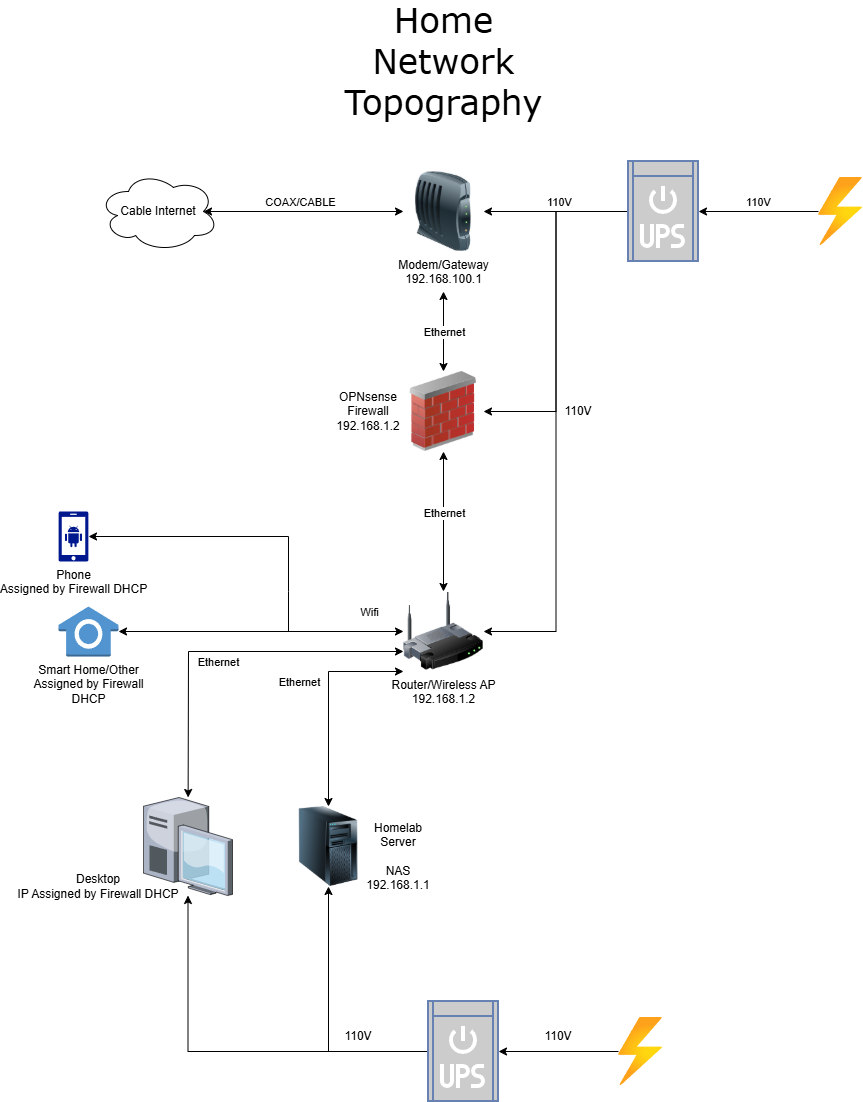
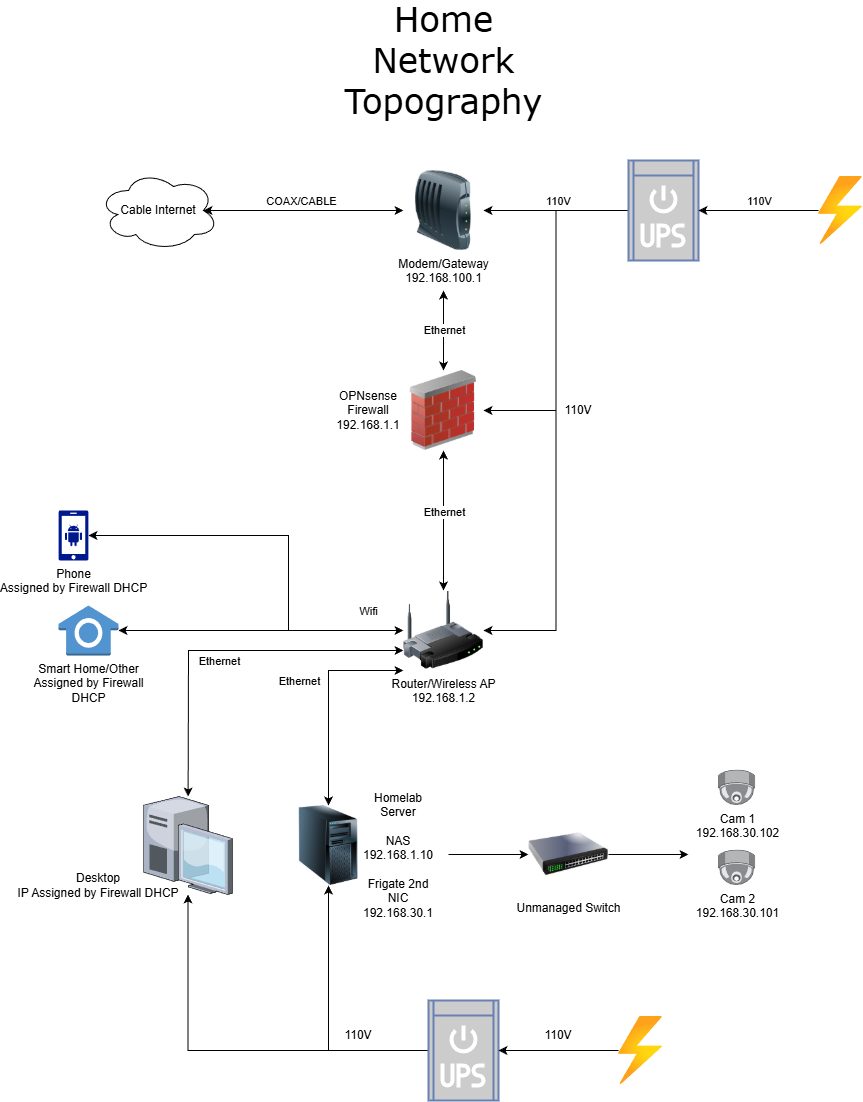
Update

diff --git a/vehicles.html b/vehicles.html
@@ -33,24 +33,20 @@
         <h2>Projects to document</h2>
         <ul class="small-note">
           <li>ESP32 truck telemetry / WiFi portal</li>
-          <li>LED / Knight Rider scanner modules</li>
           <li>Horn controller and relay experiments</li>
           <li>Sensor mounts and 3D printed brackets</li>
         </ul>
-        <p class="small-note">
-          Related images can live in <code>/assets/vehicles/</code> with short write-ups here.
-        </p>
       </section>
     </main>
 
-<footer class="site-footer">
-  <div>© <span id="year"></span> Delaplaine Digital Solutions.</div>
-  <div>All images and content on this website are copyrighted and owned by Delaplaine Digital Solutions.</div>
-  <div>
-    For licensing, usage permissions, or other inquiries, please contact
-    <a href="mailto:DelaplaineDigitalSolutions@gmail.com">DelaplaineDigitalSolutions@gmail.com</a>.
-  </div>
-</footer>
+   <footer class="site-footer">
+      <div>© <span id="year"></span> Delaplaine Digital Solutions.</div>
+      <div>All images and content on this website are copyrighted and owned by Delaplaine Digital Solutions.</div>
+      <div>
+        For licensing, usage permissions, or other inquiries, please contact
+        <a href="mailto:Eric@delaplainedigital.com">Eric@delaplainedigital.com</a>.
+      </div>
+    </footer>
   </div>
   <script>
     document.getElementById("year").textContent = new Date().getFullYear();

diff --git a/homelab.html b/homelab.html
@@ -26,7 +26,7 @@
     <main>
       <h1 class="page-title">Homelab & Virtualization Stack</h1>
       <p class="page-subtitle">
-        The Windows 11 Pro host and VMs that power the NAS, firewall, tools, and experiments.
+        The Windows 11 Enterprise host and VMs that power the NAS, firewall, tools, and experiments.
       </p>
 
       <section class="section-card">
@@ -113,12 +113,12 @@
       </section>
     </main>
 
-    <footer class="site-footer">
+   <footer class="site-footer">
       <div>© <span id="year"></span> Delaplaine Digital Solutions.</div>
       <div>All images and content on this website are copyrighted and owned by Delaplaine Digital Solutions.</div>
       <div>
         For licensing, usage permissions, or other inquiries, please contact
-        <a href="mailto:DelaplaineDigitalSolutions@gmail.com">DelaplaineDigitalSolutions@gmail.com</a>.
+        <a href="mailto:Eric@delaplainedigital.com">Eric@delaplainedigital.com</a>.
       </div>
     </footer>
   </div>

diff --git a/index.html b/index.html
@@ -73,14 +73,14 @@
       </section>
     </main>
 
-<footer class="site-footer">
-  <div>© <span id="year"></span> Delaplaine Digital Solutions.</div>
-  <div>All images and content on this website are copyrighted and owned by Delaplaine Digital Solutions.</div>
-  <div>
-    For licensing, usage permissions, or other inquiries, please contact
-    <a href="mailto:DelaplaineDigitalSolutions@gmail.com">DelaplaineDigitalSolutions@gmail.com</a>.
-  </div>
-</footer>
+   <footer class="site-footer">
+      <div>© <span id="year"></span> Delaplaine Digital Solutions.</div>
+      <div>All images and content on this website are copyrighted and owned by Delaplaine Digital Solutions.</div>
+      <div>
+        For licensing, usage permissions, or other inquiries, please contact
+        <a href="mailto:Eric@delaplainedigital.com">Eric@delaplainedigital.com</a>.
+      </div>
+    </footer>
   </div>
 
   <script>

diff --git a/about.html b/about.html
@@ -74,7 +74,7 @@
         <h2>Contact</h2>
         <p>
           For opportunities, collaborations, or questions about my work, you can reach me at
-          <a href="mailto:DelaplaineDigitalSolutions@gmail.com">DelaplaineDigitalSolutions@gmail.com</a>.
+          <a href="mailto:Eric@delaplainedigital.com">Eric@delaplainedigital.com</a>.
         </p>
       </section>
     </main>
@@ -84,7 +84,7 @@
       <div>All images and content on this website are copyrighted and owned by Delaplaine Digital Solutions.</div>
       <div>
         For licensing, usage permissions, or other inquiries, please contact
-        <a href="mailto:DelaplaineDigitalSolutions@gmail.com">DelaplaineDigitalSolutions@gmail.com</a>.
+        <a href="mailto:Eric@delaplainedigital.com">Eric@delaplainedigital.com</a>.
       </div>
     </footer>
   </div>

diff --git a/photography.html b/photography.html
@@ -132,14 +132,12 @@
       </section>
     </main>
 
-    <footer class="site-footer">
+   <footer class="site-footer">
       <div>© <span id="year"></span> Delaplaine Digital Solutions.</div>
       <div>All images and content on this website are copyrighted and owned by Delaplaine Digital Solutions.</div>
       <div>
-        For licensing or usage requests, please contact
-        <a href="mailto:DelaplaineDigitalSolutions@gmail.com">
-          DelaplaineDigitalSolutions@gmail.com
-        </a>.
+        For licensing, usage permissions, or other inquiries, please contact
+        <a href="mailto:Eric@delaplainedigital.com">Eric@delaplainedigital.com</a>.
       </div>
     </footer>
   </div>

diff --git a/printing.html b/printing.html
@@ -173,12 +173,12 @@
       </section>
     </main>
 
-    <footer class="site-footer">
+   <footer class="site-footer">
       <div>© <span id="year"></span> Delaplaine Digital Solutions.</div>
       <div>All images and content on this website are copyrighted and owned by Delaplaine Digital Solutions.</div>
       <div>
-        For licensing or inquiries, contact
-        <a href="mailto:DelaplaineDigitalSolutions@gmail.com">DelaplaineDigitalSolutions@gmail.com</a>.
+        For licensing, usage permissions, or other inquiries, please contact
+        <a href="mailto:Eric@delaplainedigital.com">Eric@delaplainedigital.com</a>.
       </div>
     </footer>
   </div>

diff --git a/computer-projects.html b/computer-projects.html
@@ -144,12 +144,12 @@
       </section>
     </main>
 
-    <footer class="site-footer">
+   <footer class="site-footer">
       <div>© <span id="year"></span> Delaplaine Digital Solutions.</div>
       <div>All images and content on this website are copyrighted and owned by Delaplaine Digital Solutions.</div>
       <div>
         For licensing, usage permissions, or other inquiries, please contact
-        <a href="mailto:DelaplaineDigitalSolutions@gmail.com">DelaplaineDigitalSolutions@gmail.com</a>.
+        <a href="mailto:Eric@delaplainedigital.com">Eric@delaplainedigital.com</a>.
       </div>
     </footer>
   </div>

diff --git a/nas.html b/nas.html
@@ -107,12 +107,12 @@
       </section>
     </main>
 
-    <footer class="site-footer">
+   <footer class="site-footer">
       <div>© <span id="year"></span> Delaplaine Digital Solutions.</div>
       <div>All images and content on this website are copyrighted and owned by Delaplaine Digital Solutions.</div>
       <div>
         For licensing, usage permissions, or other inquiries, please contact
-        <a href="mailto:DelaplaineDigitalSolutions@gmail.com">DelaplaineDigitalSolutions@gmail.com</a>.
+        <a href="mailto:Eric@delaplainedigital.com">Eric@delaplainedigital.com</a>.
       </div>
     </footer>
   </div>

diff --git a/opnsense.html b/opnsense.html
@@ -182,12 +182,12 @@
       </section>
     </main>
 
-    <footer class="site-footer">
+   <footer class="site-footer">
       <div>© <span id="year"></span> Delaplaine Digital Solutions.</div>
       <div>All images and content on this website are copyrighted and owned by Delaplaine Digital Solutions.</div>
       <div>
         For licensing, usage permissions, or other inquiries, please contact
-        <a href="mailto:DelaplaineDigitalSolutions@gmail.com">DelaplaineDigitalSolutions@gmail.com</a>.
+        <a href="mailto:Eric@delaplainedigital.com">Eric@delaplainedigital.com</a>.
       </div>
     </footer>
   </div>

diff --git a/malware-lab.html b/malware-lab.html
@@ -54,12 +54,12 @@
       </section>
     </main>
 
-    <footer class="site-footer">
+   <footer class="site-footer">
       <div>© <span id="year"></span> Delaplaine Digital Solutions.</div>
       <div>All images and content on this website are copyrighted and owned by Delaplaine Digital Solutions.</div>
       <div>
         For licensing, usage permissions, or other inquiries, please contact
-        <a href="mailto:DelaplaineDigitalSolutions@gmail.com">DelaplaineDigitalSolutions@gmail.com</a>.
+        <a href="mailto:Eric@delaplainedigital.com">Eric@delaplainedigital.com</a>.
       </div>
     </footer>
   </div>

diff --git a/pihole.html b/pihole.html
@@ -64,12 +64,12 @@
       </section>
     </main>
 
-    <footer class="site-footer">
+   <footer class="site-footer">
       <div>© <span id="year"></span> Delaplaine Digital Solutions.</div>
       <div>All images and content on this website are copyrighted and owned by Delaplaine Digital Solutions.</div>
       <div>
         For licensing, usage permissions, or other inquiries, please contact
-        <a href="mailto:DelaplaineDigitalSolutions@gmail.com">DelaplaineDigitalSolutions@gmail.com</a>.
+        <a href="mailto:Eric@delaplainedigital.com">Eric@delaplainedigital.com</a>.
       </div>
     </footer>
   </div>

diff --git a/python-tools.html b/python-tools.html
@@ -57,12 +57,12 @@
       </section>
     </main>
 
-    <footer class="site-footer">
+   <footer class="site-footer">
       <div>© <span id="year"></span> Delaplaine Digital Solutions.</div>
       <div>All images and content on this website are copyrighted and owned by Delaplaine Digital Solutions.</div>
       <div>
         For licensing, usage permissions, or other inquiries, please contact
-        <a href="mailto:DelaplaineDigitalSolutions@gmail.com">DelaplaineDigitalSolutions@gmail.com</a>.
+        <a href="mailto:Eric@delaplainedigital.com">Eric@delaplainedigital.com</a>.
       </div>
     </footer>
   </div>
